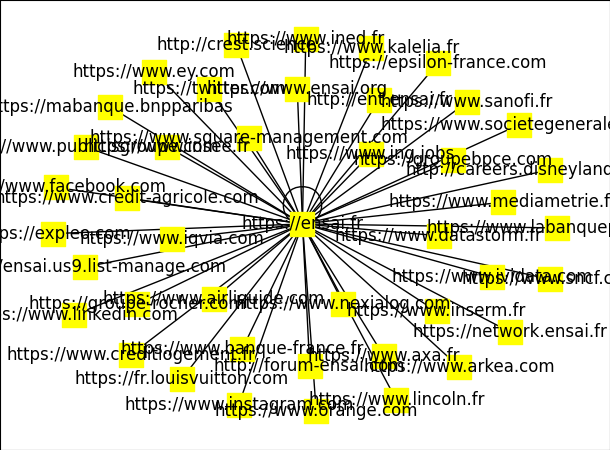
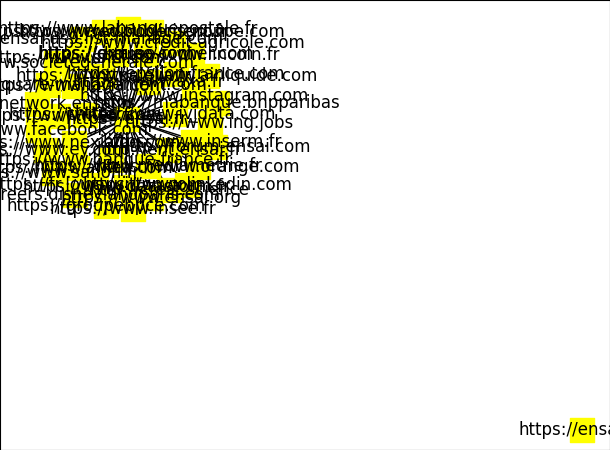
Modification du code

diff --git a/crawler/crawler_function.py b/crawler/crawler_function.py
@@ -4,22 +4,16 @@ from visualisation import graphe_function
 
 
 
-def modify_graphe(list_urls: list, starting_index: int, graphique: nx.Graph):
-
-    url_request = list_urls[starting_index]
-    result = robots.request_robots(url_request)
-    url_list = clean_function.clean_list(result)
-    base_url = clean_function.clean_url(url_request)
-    for url in url_list:
-        graphe_function.set_node(graphique, url)
-        graphe_function.set_edge(graphique, base_url, url)
-
-
-
 def crawl(list_urls: list, starting_index: int, threshold: int, graphique: nx.Graph):
 
     while graphique.number_of_nodes() < threshold and starting_index < len(list_urls):
 
-        modify_graphe(list_urls, starting_index, graphique)        
+        url_request = list_urls[starting_index]
+        result = robots.request_robots(url_request)
+        url_list = clean_function.clean_list(result)
+        base_url = clean_function.clean_url(url_request)
+        for url in url_list:
+            graphe_function.set_node(graphique, url)
+            graphe_function.set_edge(graphique, base_url, url)    
 
         starting_index += 1

diff --git a/visualisation/graphe_function.py b/visualisation/graphe_function.py
@@ -22,7 +22,7 @@ def get_node_size(token: str):
 def set_node(graphe: nx.Graph, token: str):
 
     if not(graphe.has_node(token)):
-        graphe.add_node(token, node_size = get_node_size(token))
+        graphe.add_node(token, size = get_node_size(token))
 
 
 
@@ -32,7 +32,10 @@ def create_graphe(graphe: nx.Graph):
     for node in graphe.nodes():
         labels[node] = node
     pos = nx.spring_layout(graphe)
-    nx.draw_networkx(graphe, pos, node_shape = 's', node_color = "yellow", with_labels = False)
+    nx.draw_networkx(graphe, pos, node_shape = "s", node_color = "yellow", with_labels = False)
     nx.draw_networkx_labels(graphe, pos, labels)
     plt.tight_layout()
-    plt.savefig('./visualisation/graphe.png', bbox_inches = 'tight', pad_inches = 0, format = 'png')
+    plt.savefig("./visualisation/graphe.png", bbox_inches = "tight", pad_inches = 0, format = "png")
+
+
+print(len("https://ensai.fr/"))

diff --git a/main.py b/main.py
@@ -8,13 +8,12 @@ import webbrowser
 
 def main(url: str, threshold_urls: int):
 
-    list_urls = []
-    list_urls.append(url)
-
+    list_urls = [url]
     starting_index = 0
     G = nx.Graph()
 
-    crawler_function.modify_graphe(list_urls, starting_index, G)
+    graphe.set_node(G, url)
+
     crawler_function.crawl(list_urls, starting_index, threshold_urls, G)
 
     graphe.create_graphe(G)
